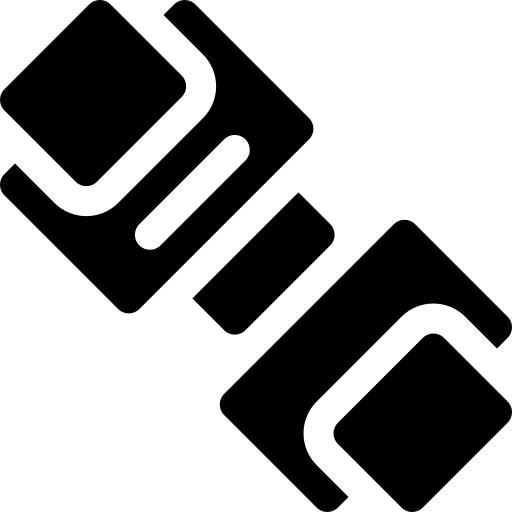
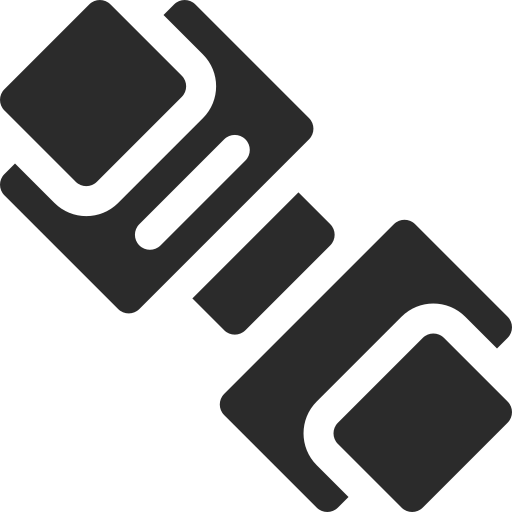
Feat: Change color of seatbelt + Added animation for arrows

diff --git a/html/js/script.js b/html/js/script.js
@@ -6,7 +6,7 @@ const wrenchWrap = doc.getElementById('wrench-wrap')
 let gauge = new ProgressBar.SemiCircle('#speed-container', {
     strokeWidth: 6,
     color: '#FFEA82',
-    trailColor: '#eee',
+    trailColor: 'rgba(30, 30, 30, 0.8)',
     trailWidth: 5,
     easing: 'easeInOut',
     svgStyle: null,
@@ -30,7 +30,7 @@ let gauge = new ProgressBar.SemiCircle('#speed-container', {
 let gas = new ProgressBar.SemiCircle('#fuel-container', {
     strokeWidth: 6,
     color: '#FFEA82',
-    trailColor: '#ccc',
+    trailColor: 'rgba(30, 30, 30, 0.8)',
     trailWidth: 4,
     easing: 'easeInOut',
     svgStyle: null,
@@ -54,7 +54,7 @@ let gas = new ProgressBar.SemiCircle('#fuel-container', {
 let rev = new ProgressBar.SemiCircle('#rpm-container', {
     strokeWidth: 6,
     color: '#FFEA82',
-    trailColor: '#ccc',
+    trailColor: 'rgba(30, 30, 30, 0.8)',
     trailWidth: 4,
     easing: 'easeInOut',
     svgStyle: null,
@@ -64,8 +64,8 @@ let rev = new ProgressBar.SemiCircle('#rpm-container', {
     },
 
     // Gradient
-    from: { color: 'rgb(230, 5, 35)' },
-    to: { color: 'rgb(0, 68, 255)' },
+    from: { color: '#ffe229' },
+    to: { color: '#ff2970' },
 
     // Set default step function for all animate calls
     step: (state, rev) => {
@@ -115,7 +115,7 @@ window.addEventListener("message", function(event) {
         case "iconhud":
             limiterState = event.data.limiter
             if (limiterState) {
-                doc.getElementById('tacho').style.color = "#90e300"
+                doc.getElementById('tacho').style.color = "#219c31"
             } else {
                 doc.getElementById('tacho').style.color = ""
             }
@@ -125,15 +125,15 @@ window.addEventListener("message", function(event) {
             leftLightState = event.data.leftState
 			rightLightState = event.data.rightState
 			if (leftLightState) {
-				doc.getElementById('left-arrow').style.color = '#ebae34'
+				doc.getElementById('left-arrow').style.animation = 'arrowsPulse 0.8s infinite'
 			} else {
-				doc.getElementById('left-arrow').style.color = ''
+				doc.getElementById('left-arrow').style.animation = ''
 			}
 
 			if (rightLightState) {
-				doc.getElementById('right-arrow').style.color = '#ebae34'
+				doc.getElementById('right-arrow').style.animation = 'arrowsPulse 0.8s infinite'
 			} else {
-				doc.getElementById('right-arrow').style.color = ''
+				doc.getElementById('right-arrow').style.animation = ''
 			}
             break;
         case "show":
@@ -297,7 +297,7 @@ function openTab(target) {
 // Wrench colors
 function changeWrench(target) {
     if (target >= 95) {
-        wrenchWrap.style.color = '#429900'
+        wrenchWrap.style.color = '#219c31'
     } else if (target >= 90) {
         wrenchWrap.style.color = '#6e9900'
     } else if (target >= 80) {

diff --git a/html/css/display.css b/html/css/display.css
@@ -1,5 +1,4 @@
 /* Main wrapper*/
-
 .wrapper {
     display: flex;
     justify-content: center;
@@ -18,7 +17,6 @@
 
 
 /* Speed styling */
-
 #speed-container {
     margin: 3px;
     width: 50%;
@@ -43,13 +41,11 @@
     font-size: 65%;
 }
 
-
 /* Fuel styling*/
-
 #fuel-container {
     margin: 3px;
     width: 25%;
-    left: 4%;
+    left: 2%;
     background-color: transparent;
     transform: scaleX(-1);
     display: flex;
@@ -74,13 +70,11 @@
     transform: scaleX(-1);
 }
 
-
 /* RPM styling */
-
 #rpm-container {
     margin: 3px;
     width: 25%;
-    right: 4%;
+    right: 2%;
     background-color: transparent;
     display: flex;
     order: 3;
@@ -101,9 +95,7 @@
     font-size: 55%;
 }
 
-
 /* Fa circles */
-
 .icon-wrapper {
     display: flex;
     justify-content: space-evenly;
@@ -116,10 +108,11 @@
     height: 4vh;
     vertical-align: middle;
     font-size: 2vh;
+    color: #222222d5;
 }
 
 #wrench {
-    background-color: rgba(168, 168, 168, 0.596);
+    background-color: #bababa50;
     text-align: center;
     height: 50%;
     padding: 1.5%;
@@ -135,7 +128,7 @@
 }
 
 #left-arrow {
-    background-color: rgba(168, 168, 168, 0.596);
+    background-color: #bababa50;
     text-align: center;
     height: 50%;
     padding: 1.5%;
@@ -144,7 +137,7 @@
 }
 
 #right-arrow {
-    background-color: rgba(168, 168, 168, 0.596);
+    background-color: #bababa50;
     text-align: center;
     height: 50%;
     padding: 1.5%;
@@ -153,7 +146,7 @@
 }
 
 .speedo {
-    background-color: rgba(168, 168, 168, 0.596);
+    background-color: #bababa50;
     height: 50%;
     width: 50%;
     padding: 1.5%;
@@ -170,7 +163,7 @@
 }
 
 .gear {
-    background-color: rgba(168, 168, 168, 0.596);
+    background-color: #bababa50;
     height: 50%;
     padding: 1.5%;
     border-radius: 50%;
@@ -186,7 +179,7 @@
 }
 
 .seatbelt {
-    background-color: rgba(168, 168, 168, 0.596);
+    background-color: #bababa50;
     height: 50%;
     padding: 1.5%;
     border-radius: 50%;
@@ -201,4 +194,16 @@
     top: -5%;
     right: 0%;
     width: 80%;
+}
+
+@keyframes arrowsPulse {
+    0% {
+        color: #bababa50;
+    }
+    50% {
+        color: #219c31;
+    }
+    100% {
+        color: #bababa50;
+    }
 }

diff --git a/html/js/sliders.js b/html/js/sliders.js
@@ -519,16 +519,16 @@ const resetSpeedo = ()=> {
   saveId('topDisplay', '81%');
   saveId('leftDisplay', '0px');
   saveId('dragFuelTop', '0px');
-  saveId('dragFuelLeft', '14.5px');
+  saveId('dragFuelLeft', '9px');
   saveId('dragSpeedTop', '0px');
   saveId('dragSpeedLeft', '0px');
   saveId('dragRpmTop', '0px');
-  saveId('dragRpmLeft', '-14.5px');
+  saveId('dragRpmLeft', '-9px');
 
   $("#wrapper").animate({ top: "81%", left: "50%" });
-  $("#fuel-container").animate({ top: "0px", left: "14.5px" });
+  $("#fuel-container").animate({ top: "0px", left: "9px" });
   $("#speed-container").animate({ top: "0px", left: "0px" });
-  $("#rpm-container").animate({ top: "0px", left: "-14.5px" });
+  $("#rpm-container").animate({ top: "0px", left: "-9px" });
 }
 
 const resetButtons = ()=> {
